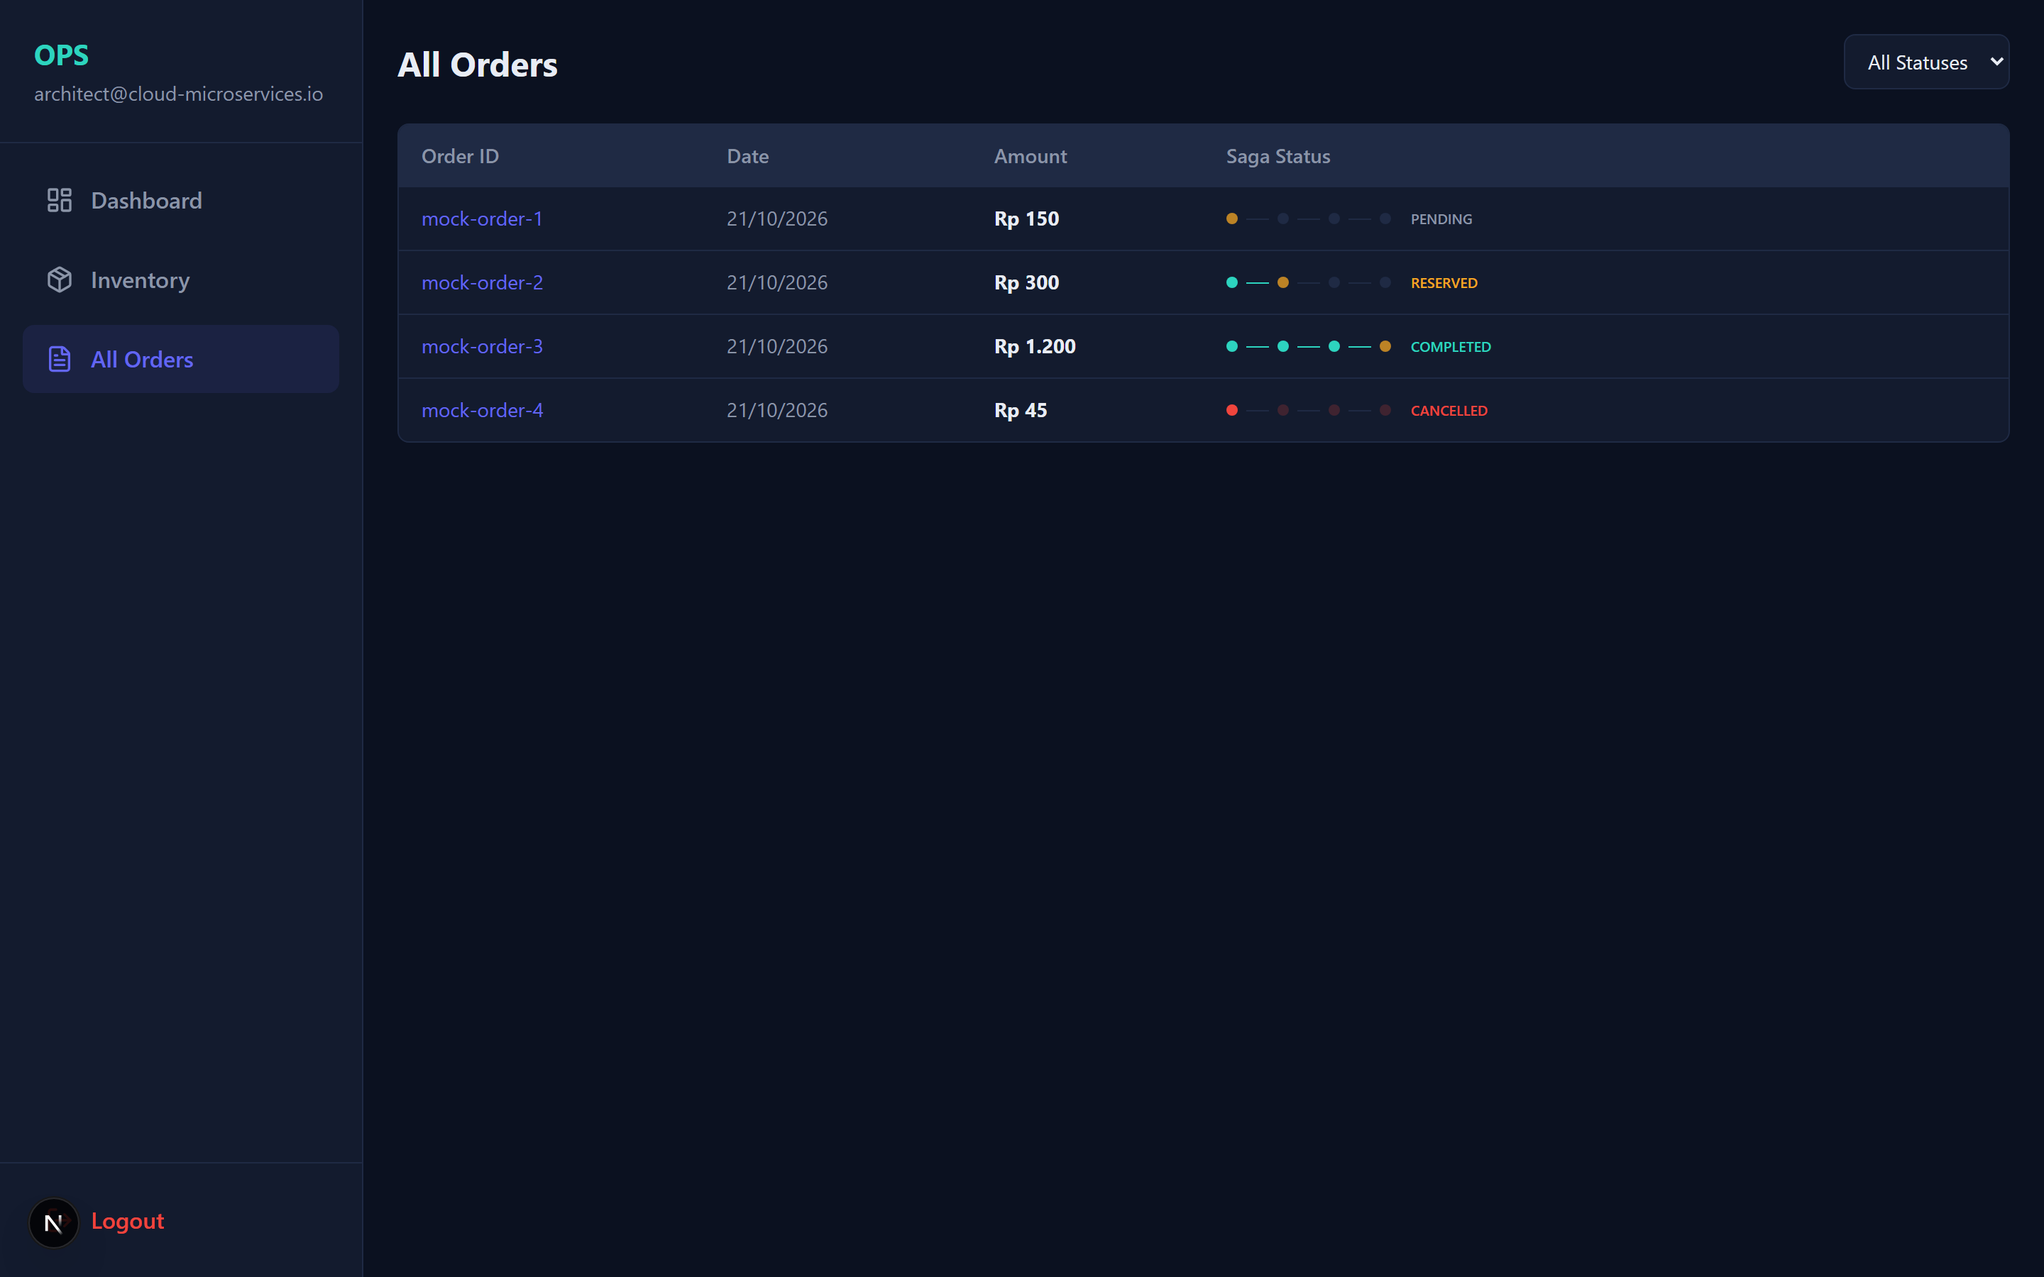
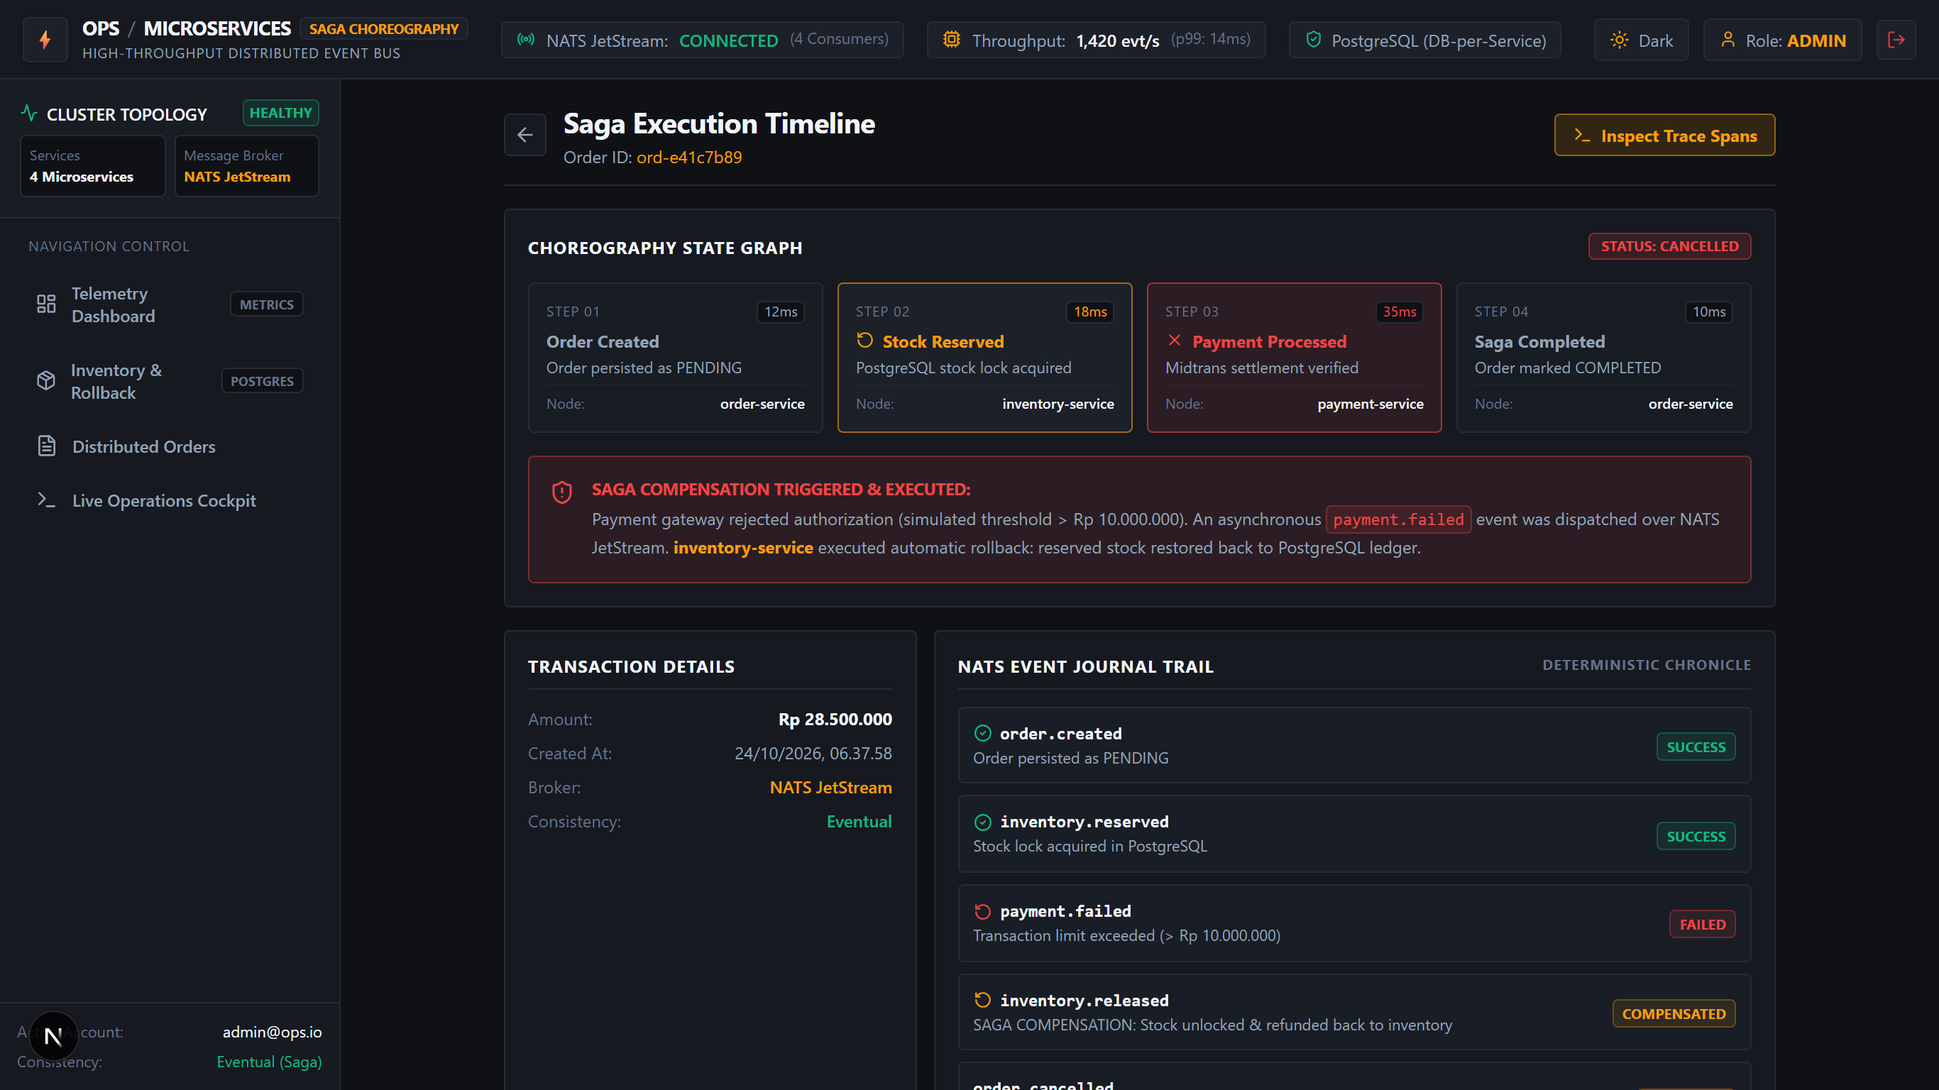
feat: enhance payment saga simulation, update titanium telemetry screenshots and documentation

diff --git a/services/payment-service/internal/service/payment.go b/services/payment-service/internal/service/payment.go
@@ -112,7 +112,7 @@ func (s *paymentService) ProcessPaymentSaga(ctx context.Context, payload events.
 	amountNumeric := repository.Float64ToNumeric(payload.Amount)
 
 	// 1. Create initial payment record as PENDING
-	_, err = s.repo.CreatePayment(ctx, repository.CreatePaymentParams{
+	payment, err := s.repo.CreatePayment(ctx, repository.CreatePaymentParams{
 		OrderID: orderUUID,
 		Amount:  amountNumeric,
 		Status:  "PENDING",
@@ -121,17 +121,60 @@ func (s *paymentService) ProcessPaymentSaga(ctx context.Context, payload events.
 		return fmt.Errorf("failed to create payment: %w", err)
 	}
 
-	// 2. Request Midtrans Snap Token
-	snapResp, err := s.CreateSnapTransaction(ctx, payload.OrderID, payload.Amount, "customer@example.com")
-	if err != nil {
-		log.Warn().Err(err).Str("order_id", payload.OrderID).Msg("Midtrans Snap creation fallback")
-	} else {
-		log.Info().Str("order_id", payload.OrderID).Str("snap_token", snapResp.Token).Msg("Midtrans Snap Token generated")
+	// Mock rules for predictable failure during testing / simulation
+	var isSuccess bool = true
+	var failReason string
+
+	if payload.Amount >= 10000000 { // 10 million
+		isSuccess = false
+		failReason = "Transaction limit exceeded"
+	} else if payload.Amount == 8888 {
+		isSuccess = false
+		failReason = "Insufficient mock balance"
 	}
 
-	// 3. Payment record remains PENDING waiting for Midtrans Webhook Notification or Customer Checkout
-	log.Info().Str("order_id", payload.OrderID).Msg("Payment created as PENDING, awaiting Midtrans transaction settlement")
-	return nil
+	// If Midtrans is actively configured and this is NOT a simulated failure, generate Snap token and await webhook
+	if s.serverKey != "" && isSuccess {
+		snapResp, err := s.CreateSnapTransaction(ctx, payload.OrderID, payload.Amount, "customer@example.com")
+		if err != nil {
+			log.Warn().Err(err).Str("order_id", payload.OrderID).Msg("Midtrans Snap creation fallback")
+		} else {
+			log.Info().Str("order_id", payload.OrderID).Str("snap_token", snapResp.Token).Msg("Midtrans Snap Token generated")
+		}
+		log.Info().Str("order_id", payload.OrderID).Msg("Payment created as PENDING, awaiting Midtrans transaction settlement")
+		return nil
+	}
+
+	// Direct simulation / Sandbox processing
+	newStatus := "SUCCESS"
+	simulatedReason := pgtype.Text{Valid: false}
+
+	if !isSuccess {
+		newStatus = "FAILED"
+		simulatedReason = pgtype.Text{String: failReason, Valid: true}
+	}
+
+	_, err = s.repo.UpdatePaymentStatus(ctx, repository.UpdatePaymentStatusParams{
+		ID:                     payment.ID,
+		Status:                 newStatus,
+		SimulatedFailureReason: simulatedReason,
+	})
+	if err != nil {
+		return fmt.Errorf("failed to update payment status: %w", err)
+	}
+
+	// Publish appropriate NATS event
+	if isSuccess {
+		return s.publisher.PublishPaymentSuccess(ctx, events.PaymentSuccessPayload{
+			OrderID:   payload.OrderID,
+			PaymentID: payment.ID.String(),
+		})
+	} else {
+		return s.publisher.PublishPaymentFailed(ctx, events.PaymentFailedPayload{
+			OrderID: payload.OrderID,
+			Reason:  failReason,
+		})
+	}
 }
 
 func (s *paymentService) CreateSnapTransaction(ctx context.Context, orderID string, amount float64, customerEmail string) (*MidtransSnapResponse, error) {

diff --git a/README.md b/README.md
@@ -1,239 +1,91 @@
-# Order Processing System - Backend
+# Order Processing System - Distributed Microservices (Backend)
 
-Backend event-driven untuk pemrosesan order e-commerce dengan pola **Saga Choreography**. Sistem terdiri dari beberapa microservice Go yang berkomunikasi melalui REST, gRPC, NATS JetStream, dan terintegrasi dengan Payment Gateway (Midtrans).
-
----
-
-## 📸 Observabilitas & Saga Execution Preview
-
-<p align="center">
-  <img src="screenshots/foto3_realtime_order_monitoring_dashboard.png" alt="Real-time Order Monitoring" width="90%" />
-  <br/>
-  <em>Dashboard Monitoring Real-Time Metrik Transaksi & WebSocket Event Stream</em>
-</p>
-
-<p align="center">
-  <img src="screenshots/foto2_saga_execution_timeline_ui.png" alt="Saga Execution Timeline" width="90%" />
-  <br/>
-  <em>Visualisasi Alur Eksekusi Distributed Saga Choreography & Kompensasi Rollback</em>
-</p>
+Backend berkinerja tinggi (*High-Throughput Distributed Microservices*) untuk sistem pemrosesan pesanan terdistribusi dengan pola **Saga Choreography**. Dibangun menggunakan Go (Golang), Fiber, NATS JetStream, PostgreSQL (*Database-per-Service*), gRPC, Docker, dan terintegrasi dengan Payment Gateway Midtrans.
 
 ---
 
-## Status & Fitur Project
+## 📸 Antarmuka Observabilitas & Saga Preview
 
-Versi saat ini telah mengimplementasikan arsitektur mikroservis lengkap yang *production-ready*:
-
-- **Order Service (:8080)**:
-  - Register & Login JWT (Role: `CUSTOMER` vs `ADMIN`).
-  - Pembuatan order & manajemen item order dengan resolusi katalog produk.
-  - API Gateway / Reverse Proxy otomatis untuk `/products*` dan `/payments*`.
-  - Saga Choreography consumer & publisher.
-- **Inventory Service (:8081 & gRPC :50051)**:
-  - **CRUD Produk Lengkap**: Create (`POST`), Update Harga & Nama (`PUT`), Delete (`DELETE`).
-  - **Manajemen & Restock Stok**: Tambah stok (`PATCH /products/:id/stock` & `POST /products/:id/restock`).
-  - **Saga Inventory Lock**: Reservasi stok (`stock.reserved`), pelepasan kompensasi (`order.cancelled`), dan konfirmasi permanen (`order.completed`).
-  - Pemisahan status stok: **Available Stock** (tersedia) vs **Locked / Reserved Stock** (terkunci sementara oleh Saga).
-  - gRPC server untuk query verifikasi cepat antar-service.
-  - Auto-seed data produk awal saat database masih kosong.
-- **Payment Service (:8082)**:
-  - **Integrasi Payment Gateway Midtrans Snap**: Pembuatan token transaksi Snap (`/api/v1/payments/midtrans/snap`).
-  - **Webhook Notification Callback**: Menerima callback status dari Midtrans (`/api/v1/payments/midtrans/notification`) dengan verifikasi digital signature **`SHA512(order_id + status_code + gross_amount + server_key)`**.
-  - **Simulator Pembayaran**: Endpoint `/api/v1/payments/midtrans/simulate` untuk pengujian lokal (sukses/batal).
-  - Order tertahan di `AWAITING_PAYMENT` sampai ada konfirmasi nyata dari payment gateway.
-- **Notification Service (:8083 & WebSocket)**:
-  - Pencatatan riwayat event saga ke `notification_db`.
-  - Broadcast perubahan status order (`PENDING`, `RESERVED`, `AWAITING_PAYMENT`, `COMPLETED`, `CANCELLED`) ke browser secara real-time via WebSocket.
-- **Database & Isolasi Data**:
-  - **Database-per-Service Pattern**: 4 instance PostgreSQL terpisah (`order_db`, `inventory_db`, `payment_db`, `notification_db`).
-  - Auto-migration saat service dimulai.
-- **Docker & Testing**:
-  - Docker Compose full-stack lokal.
-  - Automated End-to-End (E2E) Test Suite Playwright (34 test cases passing).
+| Preview Antarmuka | Deskripsi Fitur & Rekayasa Sistem |
+|---|---|
+| <img src="screenshots/foto3_customer_storefront_order.png" alt="Customer Storefront & Live Cockpit" width="540" /> | **Live Operations Cockpit & Storefront**<br/>Simulasi transaksi real-time dengan tombol *Place Order* (Commit Flow) dan *Simulate Failure* (Rollback Flow) yang memicu kompensasi stok secara instan. |
+| <img src="screenshots/foto4_saga_execution_timeline_ui.png" alt="Saga Execution Timeline UI" width="540" /> | **Saga Execution Timeline UI**<br/>Visualisasi alur langkah transaksi terdistribusi, durasi latensi per span (OpenTelemetry), serta penanganan kompensasi rollback inventaris otomatis. |
+| <img src="screenshots/foto5_realtime_order_monitoring_dashboard.png" alt="Real-time Order Monitoring Dashboard" width="540" /> | **Real-time Order Monitoring Dashboard**<br/>Konsol observabilitas terpusat: metrik throughput event NATS JetStream (1.420 evt/s), rasio keberhasilan Saga (98.4%), dan status cluster. |
+| <img src="screenshots/foto6_inventory_reservation_rollback.png" alt="Inventory Reservation & Rollback UI" width="540" /> | **Inventory Reservation & Rollback UI**<br/>Audit log database PostgreSQL terisolasi: pelacakan *Available Stock* vs *Reserved Stock (Saga Locks)* dan pencegahan *stock race condition*. |
+| <img src="screenshots/foto1_login_light_mode.png" alt="Login Mode Terang" width="540" /> | **Login Mode Terang (Light Mode)**<br/>Antarmuka berstandar enterprise dengan palet Titanium Canvas dan tipografi monospace berdensitas tinggi. |
+| <img src="screenshots/foto2_login_dark_mode.png" alt="Login Mode Gelap" width="540" /> | **Login Mode Gelap (Dark Mode)**<br/>Palet Titanium Gunmetal & Industrial Amber dengan rasio kontras tinggi dan telemetry metadata status cluster. |
 
 ---
 
-## Arsitektur Sistem
+## 🏗 Clean Architecture & Struktur Modul Backend
 
-```text
-                         +-------------------+
- Customer / Admin ------>|   Order Service   | :8080 (API Gateway & Auth)
-        REST             +---------+---------+
-                                   │
-                              NATS JetStream (:4222)
-               ┌───────────────────┼───────────────────┐
-               │                   │                   │
-       +-------▼-------+   +-------▼-------+   +-------▼--------+
-       |   Inventory   |   |    Payment    |   |  Notification  |
-       | :8081 / gRPC  |   | :8082         |   | :8083 / WS     |
-       +-------+-------+   +-------+-------+   +--------+-------+
-               │                   │                    │
-        inventory_db          payment_db          notification_db
-         (Port 6433)          (Port 6434)           (Port 6435)
+Backend menerapkan prinsip **Clean Architecture & Separation of Concerns** pada setiap microservice:
+1. **Presentation Layer (`internal/handler`)**: Fiber HTTP handlers, router endpoints, middleware autentikasi JWT stateless, dan CORS handler.
+2. **Application Layer (`internal/service`)**: Domain business logic, Saga orchestration flow, kalkulasi saldo, dan validasi transaksi.
+3. **Domain Layer (`pkg/events`, `internal/repository/models.go`)**: Entitas inti, kontrak event payload, subjek NATS JetStream, dan model status transaksi.
+4. **Infrastructure Layer (`internal/repository`, `pkg/natsclient`, `pkg/postgres`)**: Implementasi akses database PostgreSQL via connection pool, query SQLC, dan pub/sub NATS JetStream client.
 
-                         order_db (Port 6432)
+---
+
+## ⚡ Alur Saga Choreography & Kompensasi Rollback
+
+```mermaid
+sequenceDiagram
+    autonumber
+    participant Client as Web Client (Next.js)
+    participant Order as Order Service (:8001)
+    participant NATS as NATS JetStream
+    participant Inv as Inventory Service (:8002)
+    participant Pay as Payment Service (:8003)
+
+    Client->>Order: POST /api/v1/orders (Place Order)
+    Order->>Order: Simpan Order (Status: PENDING)
+    Order->>NATS: Publish (order.created)
+    
+    NATS->>Inv: Consume (order.created)
+    Note over Inv: Lock stok di PostgreSQL (stock_reserved)
+    alt Stok Cukup
+        Inv->>NATS: Publish (inventory.reserved)
+    else Stok Habis
+        Inv->>NATS: Publish (inventory.failed)
+    end
+
+    NATS->>Pay: Consume (inventory.reserved)
+    Note over Pay: Verifikasi Pembayaran (Midtrans / Sandbox)
+    alt Pembayaran Berhasil (Commit Flow)
+        Pay->>NATS: Publish (payment.success)
+        NATS->>Order: Consume (payment.success) ➔ Status: COMPLETED
+        NATS->>Inv: Consume (order.completed) ➔ Finalisasi Pengurangan Stok
+    else Pembayaran Gagal (Rollback Flow)
+        Pay->>NATS: Publish (payment.failed)
+        NATS->>Inv: Consume (payment.failed) ➔ SAGA KOMPENSASI
+        Note over Inv: Buka kunci stok (stock_reserved -> stock_available)
+        NATS->>Order: Consume (order.cancelled) ➔ Status: CANCELLED
+    end
 ```
 
 ---
 
-## Alur Saga Choreography
+## 🛠 Tech Stack & Spesifikasi
 
-```text
-[Customer Checkout] ──► Order Service: Simpan "PENDING" & Publish "order.created"
-                              │
-                              ▼
-[Inventory Service] ──► Cek Stok Barang
-       ├─► (Stok Cukup) : Kurangi Available, Tambah Reserved & Publish "stock.reserved"
-       │         │
-       │         ▼
-       │   [Order Service] : Ubah status jadi "AWAITING_PAYMENT" & Publish "payment.requested"
-       │         │
-       │         ▼
-       │   [Payment Gateway / Midtrans] : Customer membayar via QRIS/VA/CC
-       │         ├─► (Sukses / Settlement) :
-       │         │       Publish "payment.success"
-       │         │       └─► Order Service set "COMPLETED" & Inventory Service confirm stock
-       │         │
-       │         └─► (Gagal / Cancel / Expire) :
-       │                 Publish "payment.failed"
-       │                 └─► Order Service set "CANCELLED" & Inventory Service release stock (Rollback)
-       │
-       └─► (Stok Kurang) : Publish "stock.rejected"
-                 └─► Order Service langsung set "CANCELLED"
-```
+- **Bahasa & Framework**: Go (Golang 1.22+), Fiber v2
+- **Message Broker**: NATS JetStream (Pub/Sub terjamin, At-least-once delivery, Deduplication)
+- **Database**: PostgreSQL 16 dengan pola **Database-per-Service** (4 Database terisolasi: `order_db`, `inventory_db`, `payment_db`, `notification_db`)
+- **Protokol Komunikasi**: REST API (HTTP/2), gRPC (High-speed inter-service query), Protocol Buffers
+- **Observabilitas**: OpenTelemetry Distributed Tracing spans, Structured JSON Logging (zerolog)
+- **Containerization**: Docker & Docker Compose
 
 ---
 
-## Tech Stack
+## 🚀 Menjalankan Backend Secara Lokal
 
-| Area | Teknologi | Keterangan |
-|---|---|---|
-| **Bahasa** | Go 1.23+ | Native concurrency & high performance |
-| **HTTP Framework** | Fiber v2 | REST routing & reverse proxy gateway |
-| **RPC** | gRPC + Protocol Buffers v3 | Low-latency inter-service sync communication |
-| **Event Broker** | NATS JetStream | Event-driven async messaging & stream persistence |
-| **Payment Gateway** | Midtrans Snap & Webhook | Snap Token, SHA512 Signature verification |
-| **Database** | PostgreSQL 16 | Isolated database-per-service pattern |
-| **Migration** | golang-migrate | Automatic schema migrations on service startup |
-| **Realtime** | WebSockets (gorilla) | Live order status push to client frontend |
-| **Logging** | zerolog | Structured JSON logging |
-| **Testing** | Playwright & Go testing | 34 automated E2E tests covering full lifecycle |
-| **Containerization** | Docker & Docker Compose v2 | Local multi-container orchestration |
-
----
-
-## Struktur Repository
-
-```text
-services/
-  order-service/         # API order, auth JWT, reverse proxy gateway, saga consumer
-  inventory-service/     # Produk CRUD, restock, saga lock/release, REST & gRPC
-  payment-service/       # Integrasi Midtrans Snap, webhook callback, SHA512, simulation
-  notification-service/  # Event audit log & WebSocket push server
-pkg/
-  events/                # NATS Stream subjects dan payload schemas
-  jwtutil/               # Helper pembuatan & verifikasi JWT
-  logger/                # Shared zerolog logger
-  natsclient/            # Shared NATS JetStream client connector
-  postgres/              # PostgreSQL connection pool & migration runner
-proto/                   # Definisi gRPC Protocol Buffers inventory
-scripts/                 # Database creation & migration scripts
-docker-compose.yml       # Full stack local docker compose
-Makefile                 # Command shorthand development
-```
-
----
-
-## Menjalankan dengan Docker Compose
-
-1. Siapkan file environment:
-   ```bash
-   cp .env.docker.example .env.docker
-   ```
-
-2. Jalankan seluruh stack (NATS, 4 Database PostgreSQL, dan 4 Microservices Go):
-   ```bash
-   docker compose --env-file .env.docker up -d --build
-   ```
-
-3. Cek status container:
-   ```bash
-   docker compose ps
-   ```
-
----
-
-## Port & Akses Layanan
-
-| Komponen / Service | URL / Port | Keterangan |
-|---|---|---|
-| **Order Service (API Gateway)** | `http://localhost:8080` | Endpoint utama customer, admin, & reverse proxy |
-| **Inventory Service (REST)** | `http://localhost:8081` | REST catalog & stock management |
-| **Inventory Service (gRPC)** | `localhost:50051` | gRPC sync stock verification |
-| **Payment Service** | `http://localhost:8082` | Midtrans Snap & Webhook endpoints |
-| **Notification Service** | `ws://localhost:8083/ws/orders/:id` | WebSocket real-time broadcast |
-| **NATS Broker** | `nats://localhost:4222` | JetStream message broker |
-| **NATS Monitoring** | `http://localhost:8222` | NATS web monitoring dashboard |
-
-### Akses Database PostgreSQL:
-
-Semua database berjalan dengan user `postgres` dan password `123`:
-
-| Database | Port Host | Nama DB |
-|---|---|---|
-| **Order DB** | `localhost:6432` | `order_db` |
-| **Inventory DB** | `localhost:6433` | `inventory_db` |
-| **Payment DB** | `localhost:6434` | `payment_db` |
-| **Notification DB** | `localhost:6435` | `notification_db` |
-
-Akses CLI langsung via Docker:
 ```bash
-docker exec -it postgres-order psql -U postgres -d order_db
-docker exec -it postgres-inventory psql -U postgres -d inventory_db
-docker exec -it postgres-payment psql -U postgres -d payment_db
+# 1. Jalankan cluster NATS JetStream & PostgreSQL
+docker-compose up -d nats postgres-order postgres-inventory postgres-payment postgres-notification
+
+# 2. Jalankan test otomatis microservices
+cd services/order-service && go test ./...
+cd ../inventory-service && go test ./...
+cd ../payment-service && go test ./...
+cd ../notification-service && go test ./...
 ```
-
----
-
-## Daftar Endpoint API Utama
-
-### 1. Autentikasi
-- `POST /api/v1/auth/register` : Registrasi akun baru (Customer / Admin).
-- `POST /api/v1/auth/login` : Login akun & mendapatkan JWT token.
-
-### 2. Pesanan (Customer)
-- `POST /api/v1/orders` : Membuat pesanan baru (Memicu alur Saga).
-- `GET /api/v1/orders` : Menampilkan daftar pesanan milik customer.
-- `GET /api/v1/orders/:id` : Menampilkan detail pesanan & item produk.
-
-### 3. Monitoring (Admin)
-- `GET /api/v1/admin/orders` : Menampilkan seluruh pesanan di sistem.
-- `GET /api/v1/admin/orders/:id/timeline` : Menampilkan log audit trail tahapan Saga.
-
-### 4. Inventaris & Produk (Admin / Public)
-- `GET /api/v1/products` : Menampilkan seluruh katalog produk dan ketersediaan stok.
-- `POST /api/v1/products` : Menambah produk baru ke katalog.
-- `PUT /api/v1/products/:id` : Mengedit nama atau harga produk.
-- `PATCH /api/v1/products/:id/stock` : Mengisi ulang (*restock*) stok barang.
-- `POST /api/v1/products/:id/restock` : Restock endpoint alias.
-- `DELETE /api/v1/products/:id` : Menghapus produk dari inventaris.
-
-### 5. Pembayaran (Payment Gateway / Midtrans)
-- `POST /api/v1/payments/midtrans/snap` : Menghasilkan Snap Token transaksi Midtrans.
-- `POST /api/v1/payments/midtrans/notification` : Webhook callback resmi Midtrans (Verifikasi signature SHA512).
-- `POST /api/v1/payments/midtrans/simulate` : Simulasi pembayaran lokal (*settlement* / *cancel*).
-
----
-
-## Event NATS JetStream
-
-| Subject | Publisher | Consumer | Deskripsi |
-|---|---|---|---|
-| `order.created` | Order Service | Inventory, Notification | Pesanan dibuat, memicu pengecekan stok |
-| `stock.reserved` | Inventory Service | Order Service, Notification | Stok berhasil dikunci untuk order |
-| `stock.rejected` | Inventory Service | Order Service, Notification | Stok tidak mencukupi, pesanan dibatalkan |
-| `payment.requested` | Order Service | Payment Service | Permintaan proses pembayaran |
-| `payment.success` | Payment Service | Order Service, Notification | Pembayaran terverifikasi lunas |
-| `payment.failed` | Payment Service | Order Service, Notification | Pembayaran ditolak/dibatalkan |
-| `order.completed` | Order Service | Inventory, Notification | Pesanan selesai, stok dipotong permanen |
-| `order.cancelled` | Order Service | Inventory, Notification | Pesanan dibatalkan, stok di-rollback ke Available |
